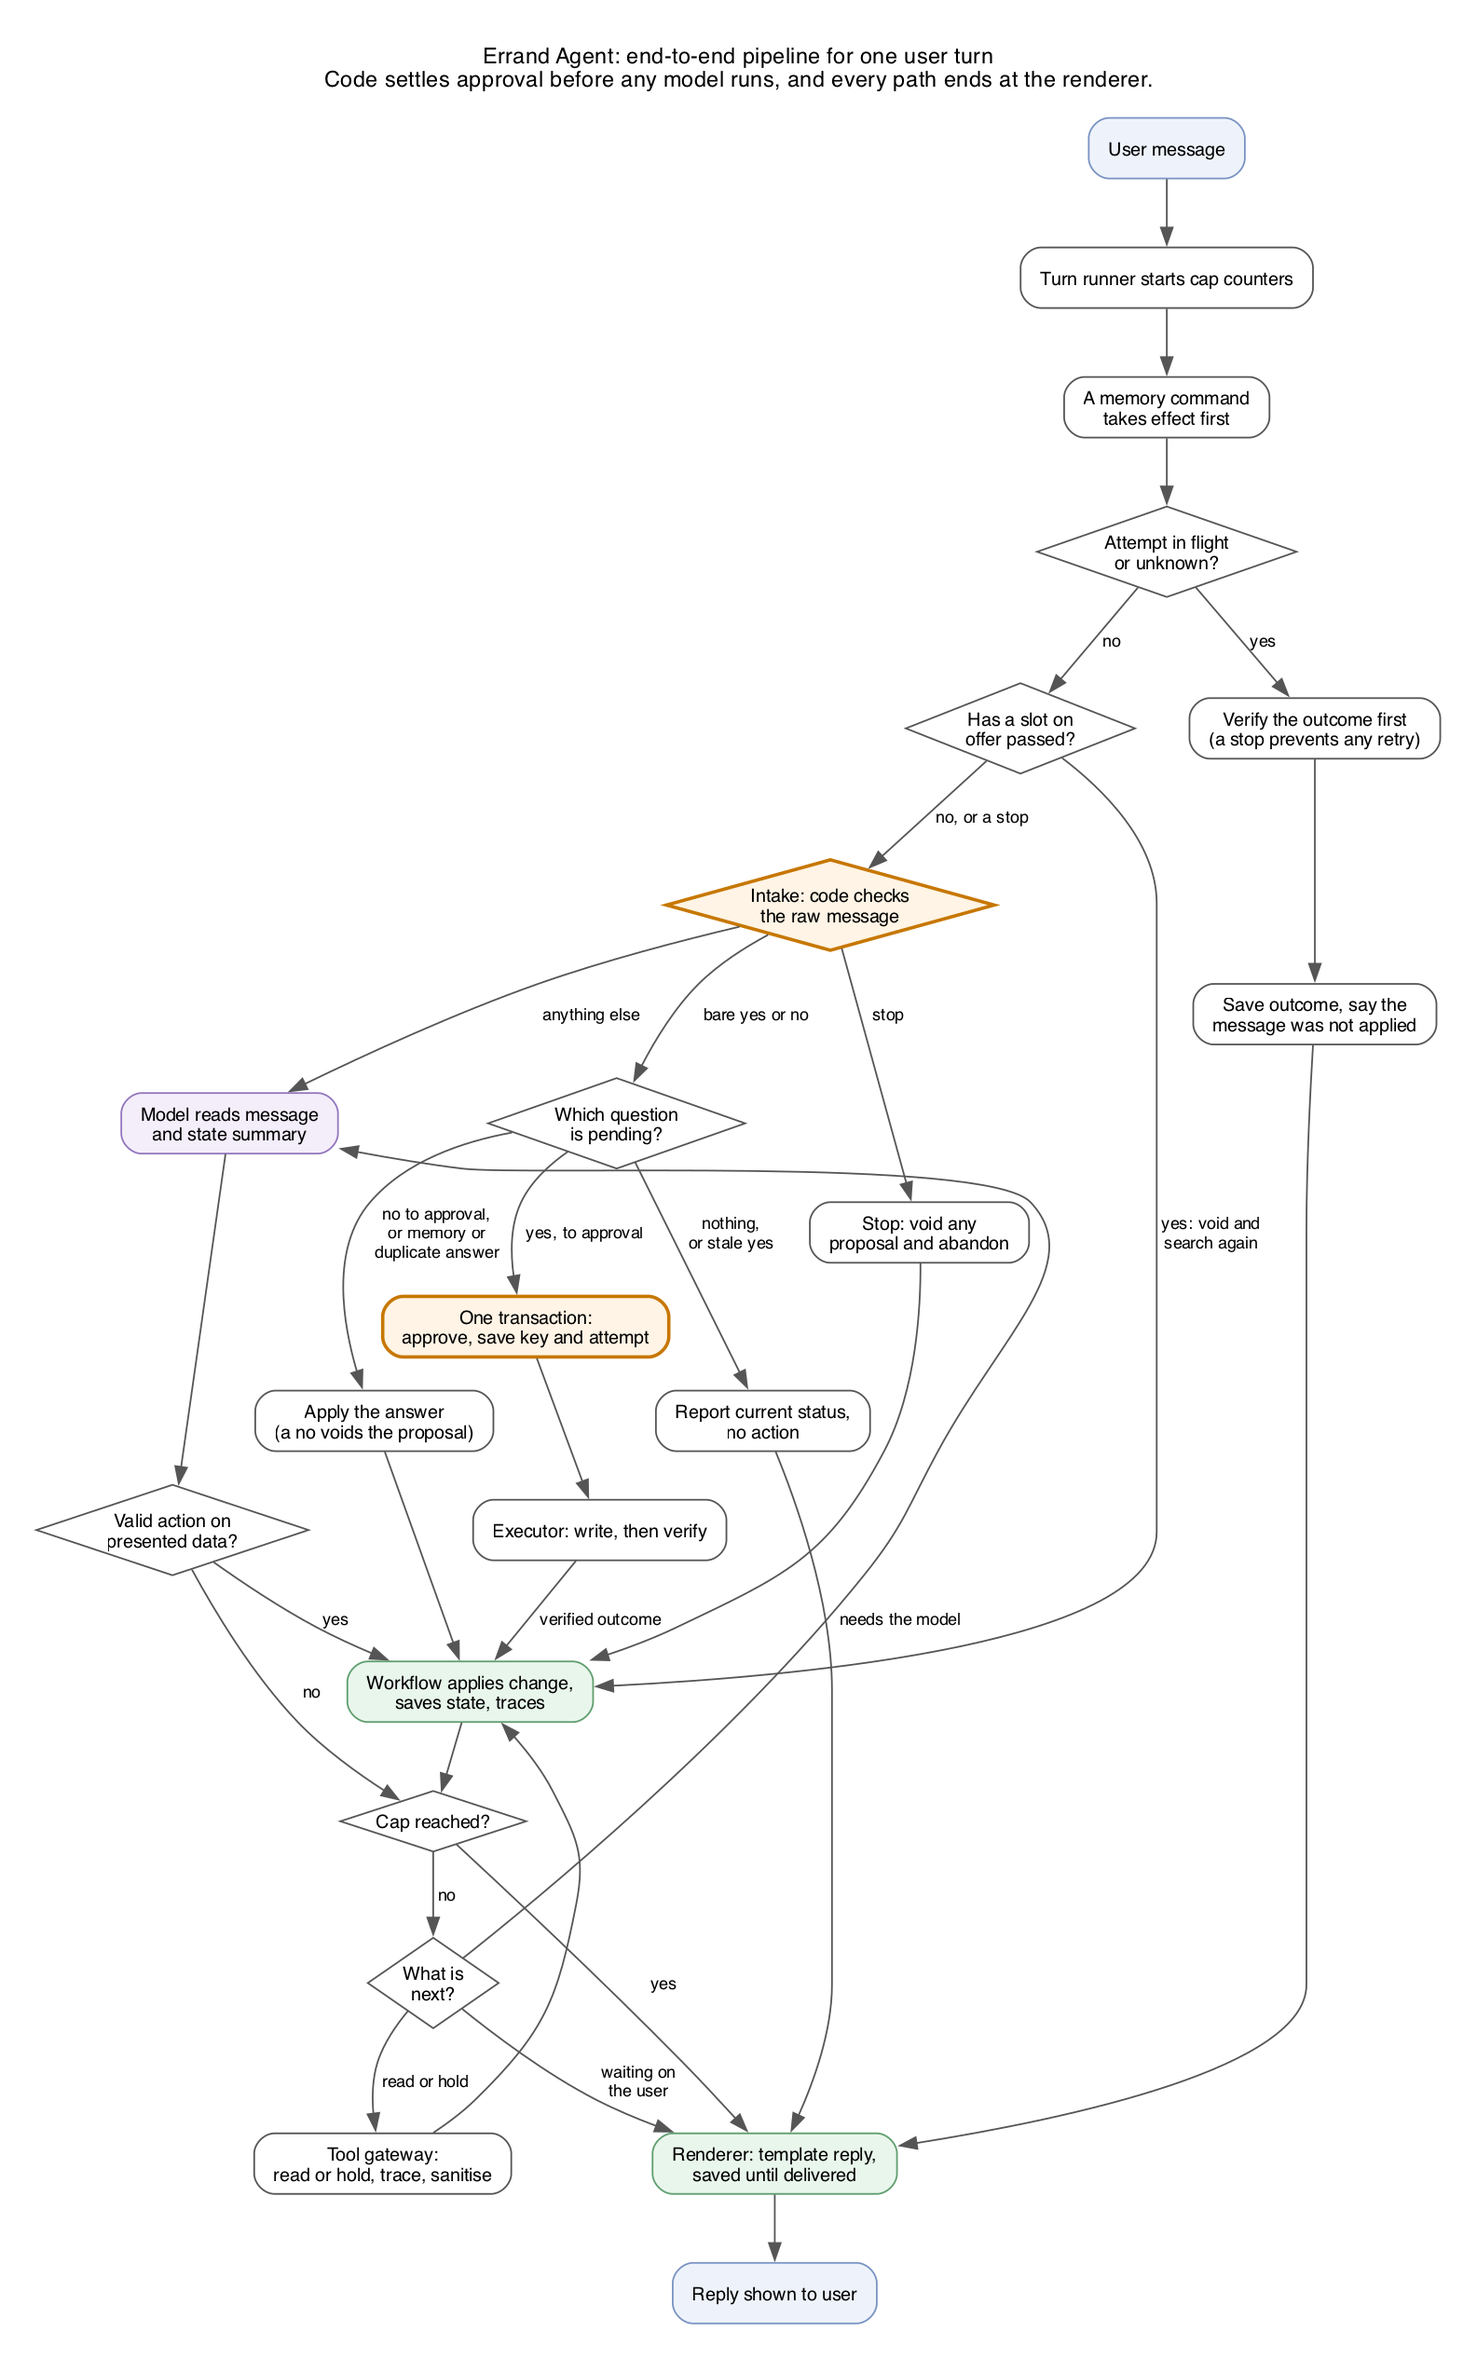
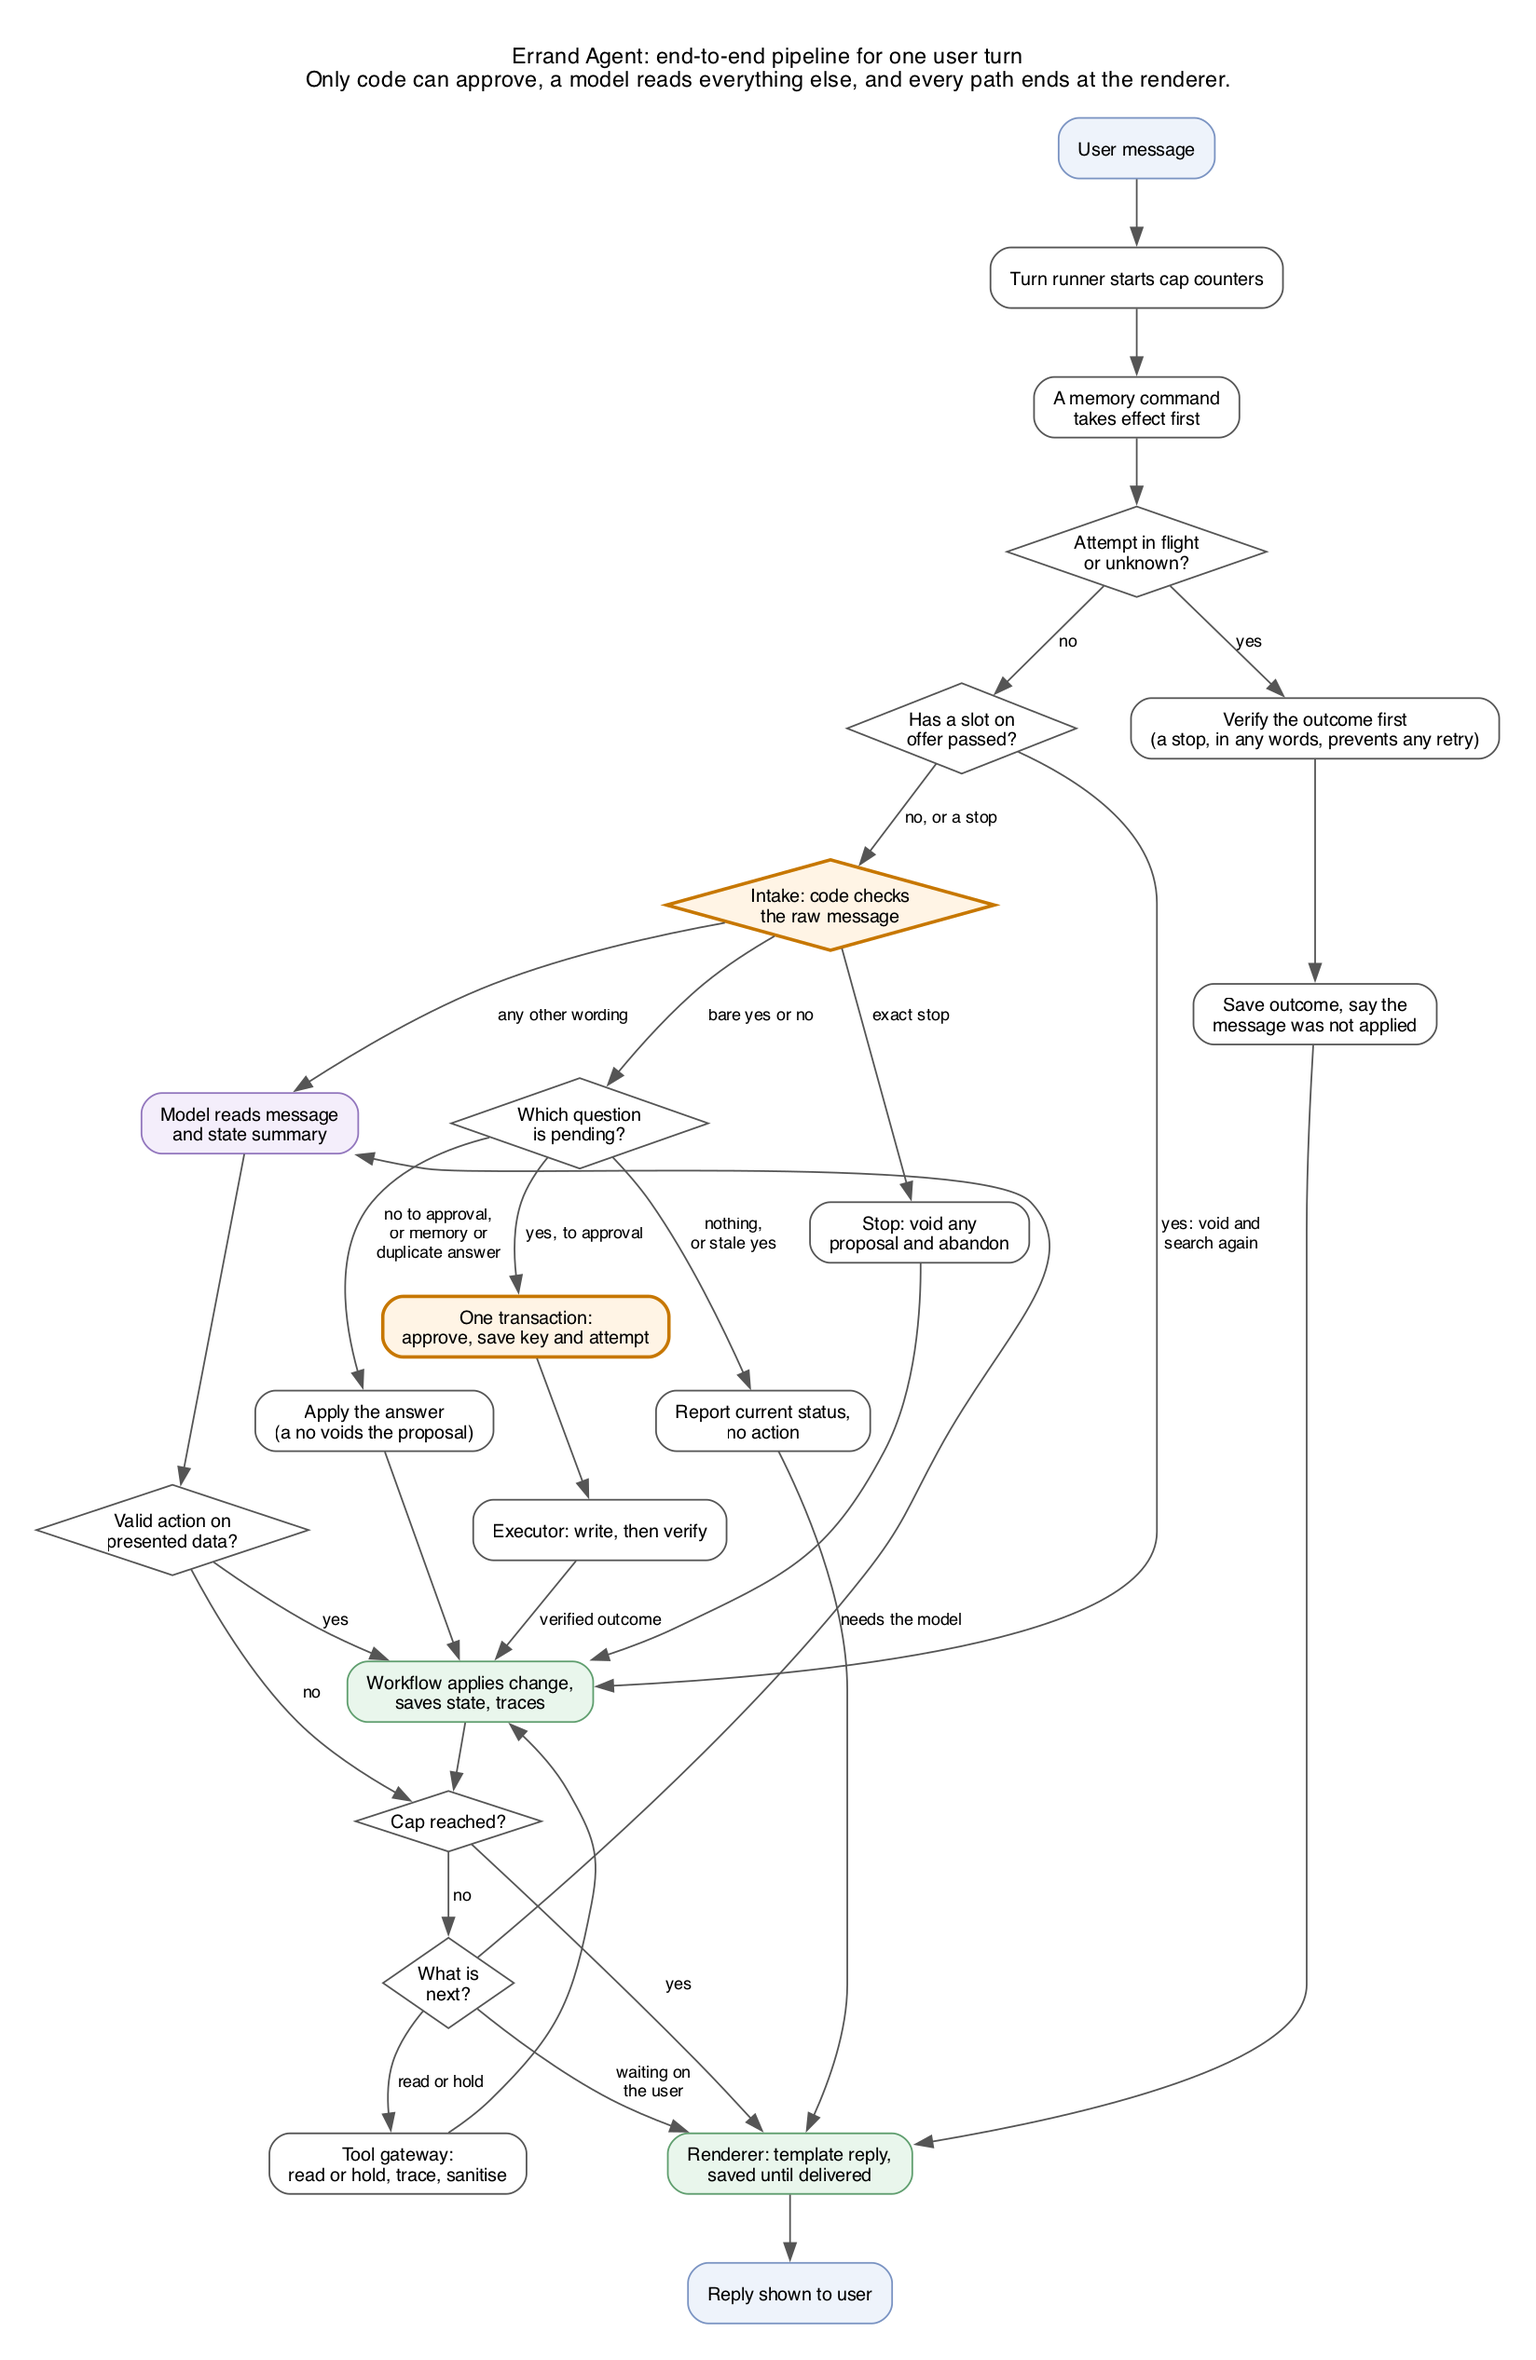
Bring the page wording, plan and pipeline diagram up to date
The router ties 9B alone with fewer wrong values, so the page no longer
calls it no better. The plan and the turn pipeline diagram now reflect
the 47 scenarios and the model reading other wordings.

diff --git a/docs/site/app.js b/docs/site/app.js
@@ -519,7 +519,7 @@ function rankedBars(title, rows, value, format, higherIsBetter) {
 function routingPanel(routing) {
   const rows = routing.test;
   const total = rows[0].total;
-  return panel("Model routing, on held-out turns", `A cheap model for easy messages and a strong one for hard ones, measured on ${total} hand-written turns kept out of choosing the router's examples and threshold. We saw earlier results on them while building, so a few turns either way is noise. The router tied 9B alone on correct answers with less compute, but it needs three model servers instead of one, so we recommend 9B alone, shown in blue.`,
+  return panel("Model routing, on held-out turns", `A cheap model for easy messages and a strong one for hard ones, measured on ${total} hand-written turns kept out of choosing the router's examples and threshold. We saw earlier results on them while building, so a few turns either way is noise. The router tied 9B alone on correct answers, with fewer wrong values and less compute, but it needs three model servers instead of one, so we recommend 9B alone, shown in blue.`,
     el("div", { class: "multiples" },
       rankedBars(`Correct, of ${total}`, rows, (r) => r.correct, (r) => String(r.correct), true),
       rankedBars("Median seconds per message", rows, (r) => r.p50, (r) => r.p50.toFixed(2), false),
@@ -581,7 +581,7 @@ async function startResults() {
       el("div", { class: "tiles" },
         tile("Eval scenarios passed", `${passed} of ${evals.length}`, "scripted, offline, checked against the ledger"),
         tile("9B correct, held-out turns", `${strong.correct} of ${strong.total}`, `${strong.wrong} with a wrong value`),
-        tile("Router correct, held-out turns", `${router.correct} of ${router.total}`, "no better than 9B alone, so routing stays off"),
+        tile("Router correct, held-out turns", `${router.correct} of ${router.total}`, "ties 9B alone but needs three servers, so routing stays off"),
         tile("Median time per message, 9B", `${strong.p50.toFixed(1)} s`, "on an Apple M5 with 16 GB, fully local"),
         tile("Real bugs found and guarded", String(bugs.length), "each guarded by a regression test")),
       evalsPanel(evals), routingPanel(routing), kindsPanel(routing), approvalPanel(routing), memoryPanel(routing), bugsPanel(bugs)));

diff --git a/src/errand/web/static/app.js b/src/errand/web/static/app.js
@@ -519,7 +519,7 @@ function rankedBars(title, rows, value, format, higherIsBetter) {
 function routingPanel(routing) {
   const rows = routing.test;
   const total = rows[0].total;
-  return panel("Model routing, on held-out turns", `A cheap model for easy messages and a strong one for hard ones, measured on ${total} hand-written turns kept out of choosing the router's examples and threshold. We saw earlier results on them while building, so a few turns either way is noise. The router tied 9B alone on correct answers with less compute, but it needs three model servers instead of one, so we recommend 9B alone, shown in blue.`,
+  return panel("Model routing, on held-out turns", `A cheap model for easy messages and a strong one for hard ones, measured on ${total} hand-written turns kept out of choosing the router's examples and threshold. We saw earlier results on them while building, so a few turns either way is noise. The router tied 9B alone on correct answers, with fewer wrong values and less compute, but it needs three model servers instead of one, so we recommend 9B alone, shown in blue.`,
     el("div", { class: "multiples" },
       rankedBars(`Correct, of ${total}`, rows, (r) => r.correct, (r) => String(r.correct), true),
       rankedBars("Median seconds per message", rows, (r) => r.p50, (r) => r.p50.toFixed(2), false),
@@ -581,7 +581,7 @@ async function startResults() {
       el("div", { class: "tiles" },
         tile("Eval scenarios passed", `${passed} of ${evals.length}`, "scripted, offline, checked against the ledger"),
         tile("9B correct, held-out turns", `${strong.correct} of ${strong.total}`, `${strong.wrong} with a wrong value`),
-        tile("Router correct, held-out turns", `${router.correct} of ${router.total}`, "no better than 9B alone, so routing stays off"),
+        tile("Router correct, held-out turns", `${router.correct} of ${router.total}`, "ties 9B alone but needs three servers, so routing stays off"),
         tile("Median time per message, 9B", `${strong.p50.toFixed(1)} s`, "on an Apple M5 with 16 GB, fully local"),
         tile("Real bugs found and guarded", String(bugs.length), "each guarded by a regression test")),
       evalsPanel(evals), routingPanel(routing), kindsPanel(routing), approvalPanel(routing), memoryPanel(routing), bugsPanel(bugs)));

diff --git a/docs/DEVELOPMENT_PLAN.md b/docs/DEVELOPMENT_PLAN.md
@@ -1,9 +1,9 @@
 # Errand Agent: Development Plan
 
-We build eight vertical slices, and each ends in something runnable with its own proof. Core work comes
+We build nine vertical slices, and each ends in something runnable with its own proof. Core work comes
 first and needs no installs. Model work comes after the must-haves are solid, as the assignment asks.
 
-Slices 1-7 and 9 are built. Slice 8 is built apart from the demo recording, which the author must record.
+Slices 1-7, 9 and 10 are built. Slice 8 is built apart from the demo recording, which the author must record.
 
 ## Slices
 
@@ -13,11 +13,12 @@ Slices 1-7 and 9 are built. Slice 8 is built apart from the demo recording, whic
 | 2 | Approval and booking safety | Approval records, typed pending questions, stop, gateway check, idempotency, timeout recovery, crash and restart, undelivered replies | Scenarios 7, 9-17, 28, 29, 32, 33, 37, 38, 39 and 40 pass, including crash injection |
 | 3 | All three actions | Reschedule, cancel, duplicate check, price lookup | Scenarios 18, 19, 27, 30 and 42 pass |
 | 4 | Conversation and memory | Ask-only-what-is-missing, corrections, "same as last time", memory view, correct and forget | Scenarios 2, 3, 4, 8, 20-22, 34 and 41 pass across sessions |
-| 5 | Hardening | Caps, untrusted content handling, trace sanitising, invariants on every run, generated eval table | Scenarios 5, 6, 23-26, 31, 35 and 36 pass, so all 42 pass offline; `eval_results.md` is generated; breaking a rule on purpose fails evals |
+| 5 | Hardening | Caps, untrusted content handling, trace sanitising, invariants on every run, generated eval table | Scenarios 5, 6, 23-26, 31, 35 and 36 pass, so every scenario passes offline; `eval_results.md` is generated; breaking a rule on purpose fails evals |
 | 6 | Live chat | Install llama.cpp, add one local LLM behind the existing interface, wall-clock review | A real chat books through to verified success, with trace recorded |
 | 7 | Model routing | Labelled turn set, router candidates, ladder, measured comparison | Results table from a real run, with quality, latency and memory |
 | 8 | Deliverables | README, design note, chosen raw trace, final `BUGS.md`, demo recording | Fresh clone runs and tests in 3 commands or fewer; every box below is ticked |
 | 9 | Web app | Chat with a live workflow timeline, results charts, replay of saved runs, published copy | Server safety tests pass; a real chat drives the page in a browser; the published page loads with no server |
+| 10 | Understanding in any words | A model reads memory requests, stops and worded answers; approval stays in code; scenarios 43-47 | Both models re-measured with wrong values not rising; a worded yes never approves, and a sabotage test proves the evals notice |
 
 Scenario numbers refer to the table in [SPECS.md](SPECS.md#evals).
 
